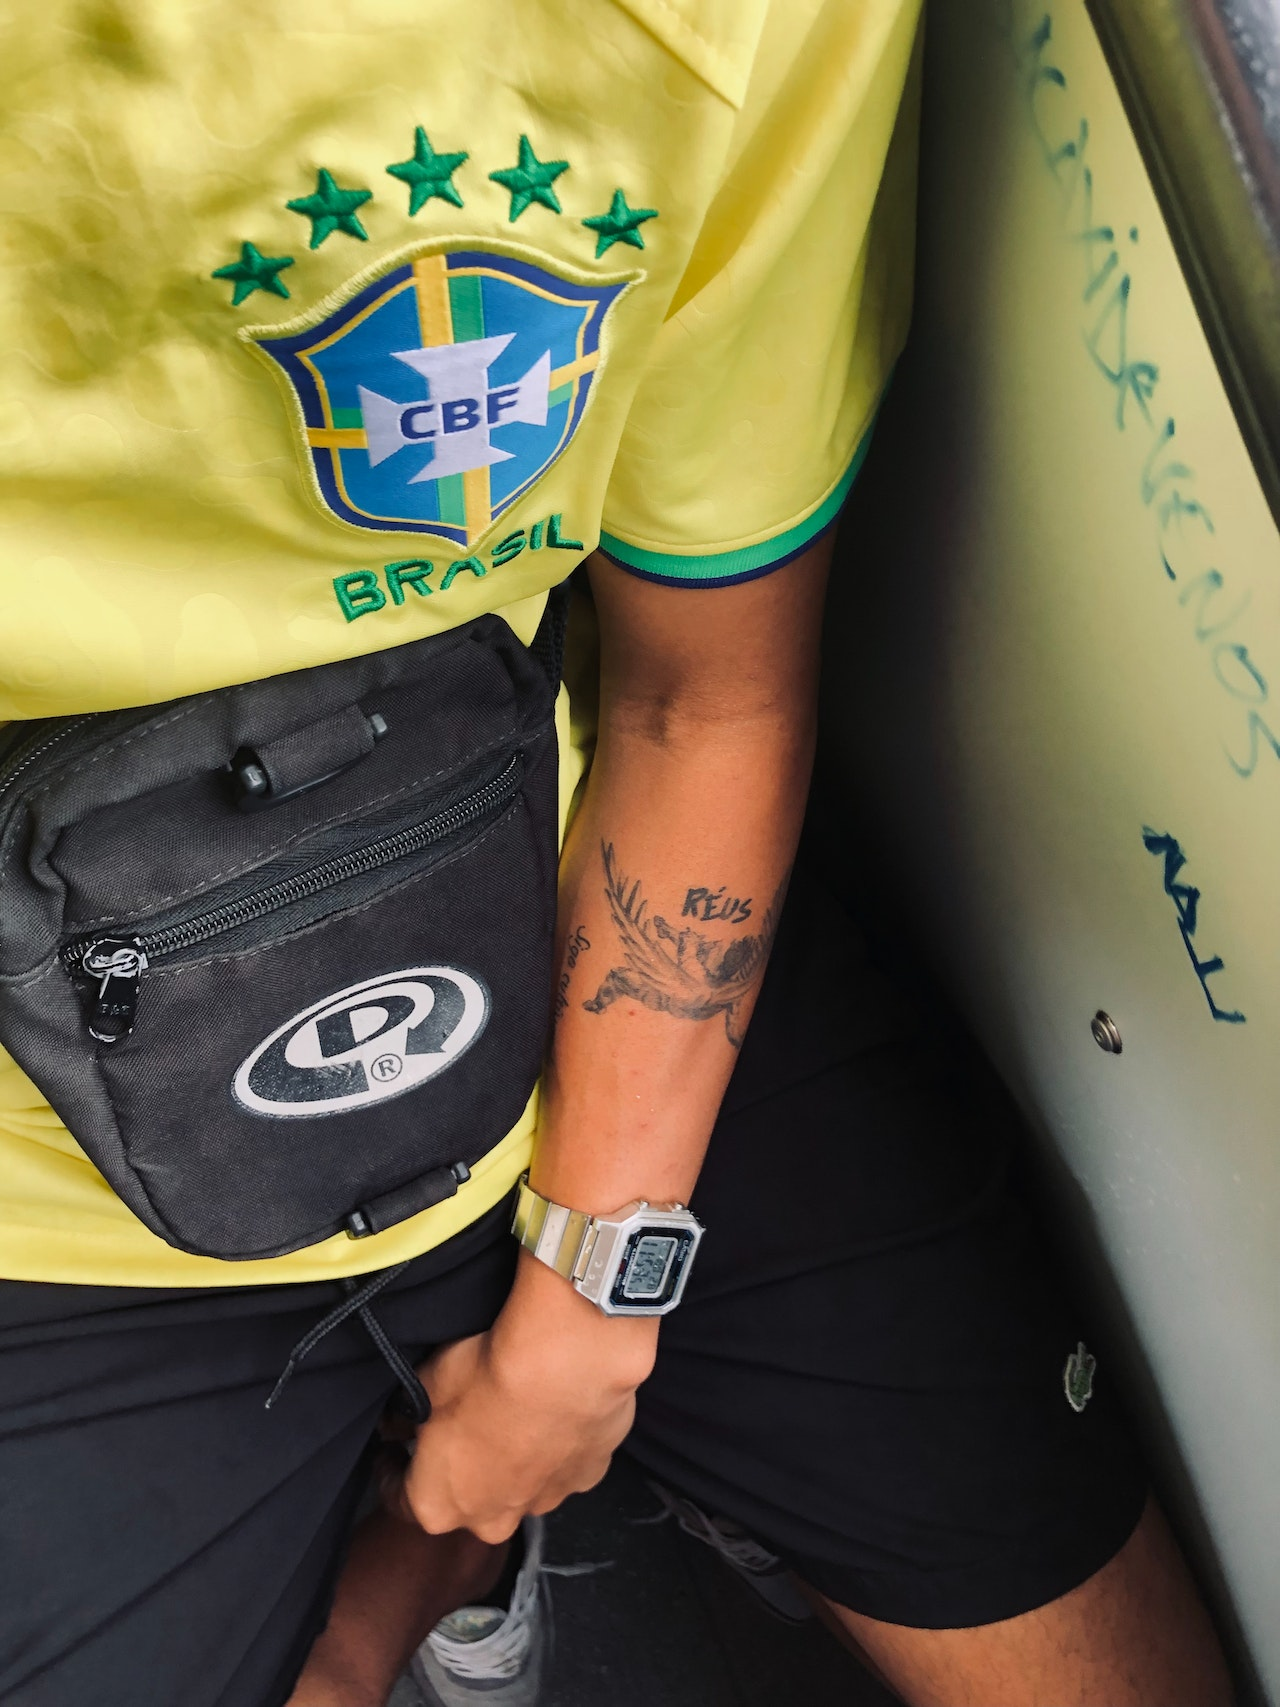
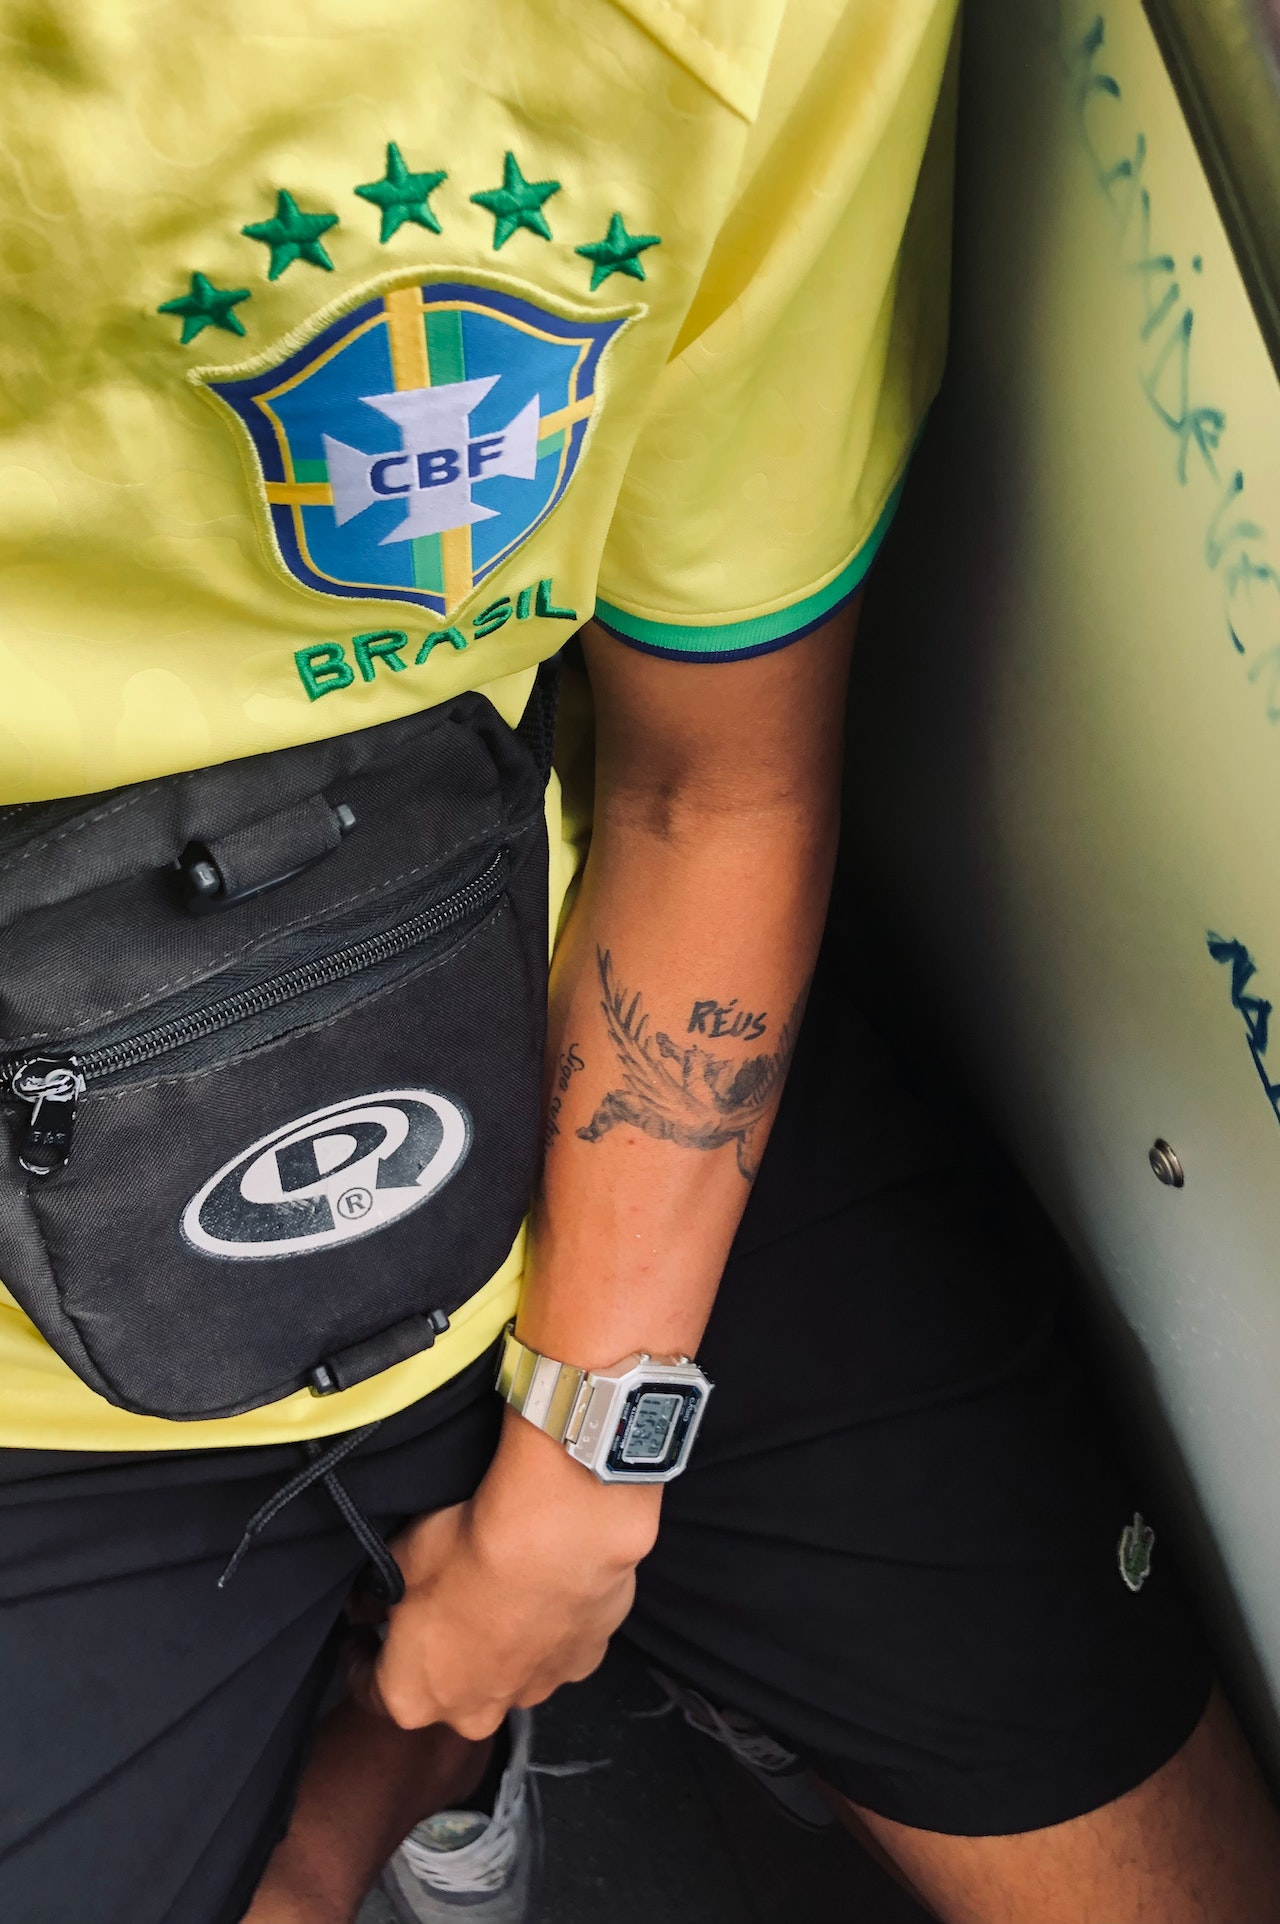
Foi alterada as img 1, 2, e 3, pois as dimencoes das imagens estavam diferentes

diff --git a/content/JavaScript/script.js b/content/JavaScript/script.js
@@ -2,7 +2,7 @@ class SlideStories {
     constructor(id) {
         this.slide = document.querySelector(`[data-slide=${id}]`);
         this.active = 0;
-        this.activeSlide(3);
+        this.activeSlide(0);
     }
 
     activeSlide(index) {
